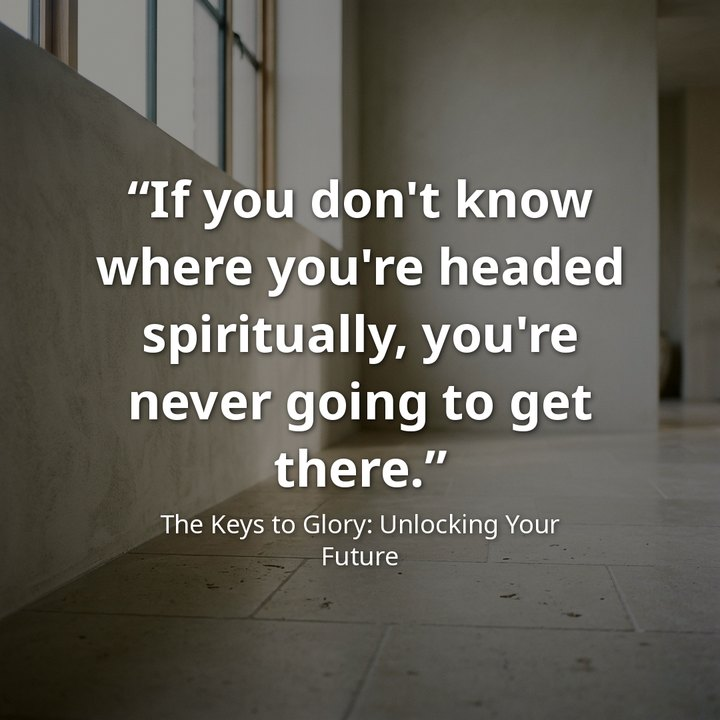
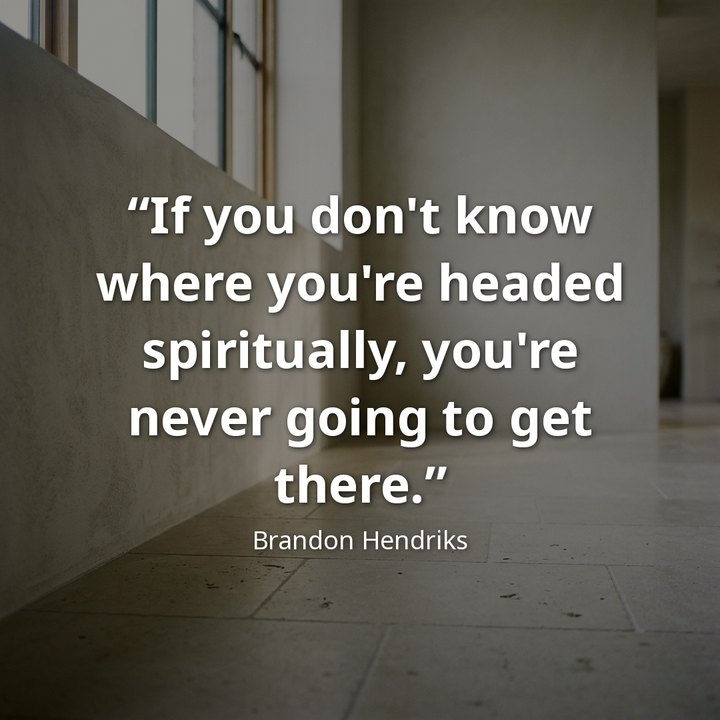
Download page: the speaker's name on his quote cards and in the samples credit

Changed region(s): [[0.1222, 0.2444, 0.8861, 0.7944]]

diff --git a/index.html b/index.html
@@ -360,7 +360,7 @@
 
 <section id="samples">
   <h2>What it looks like</h2>
-  <p class="lead">Everything below is Sermonship's actual output from one Sunday sermon.</p>
+  <p class="lead">Everything below is Sermonship's actual output from one Sunday sermon: “The Keys to Glory” by Brandon Hendriks.</p>
 
   <div class="sample">
     <div class="copy reveal">
